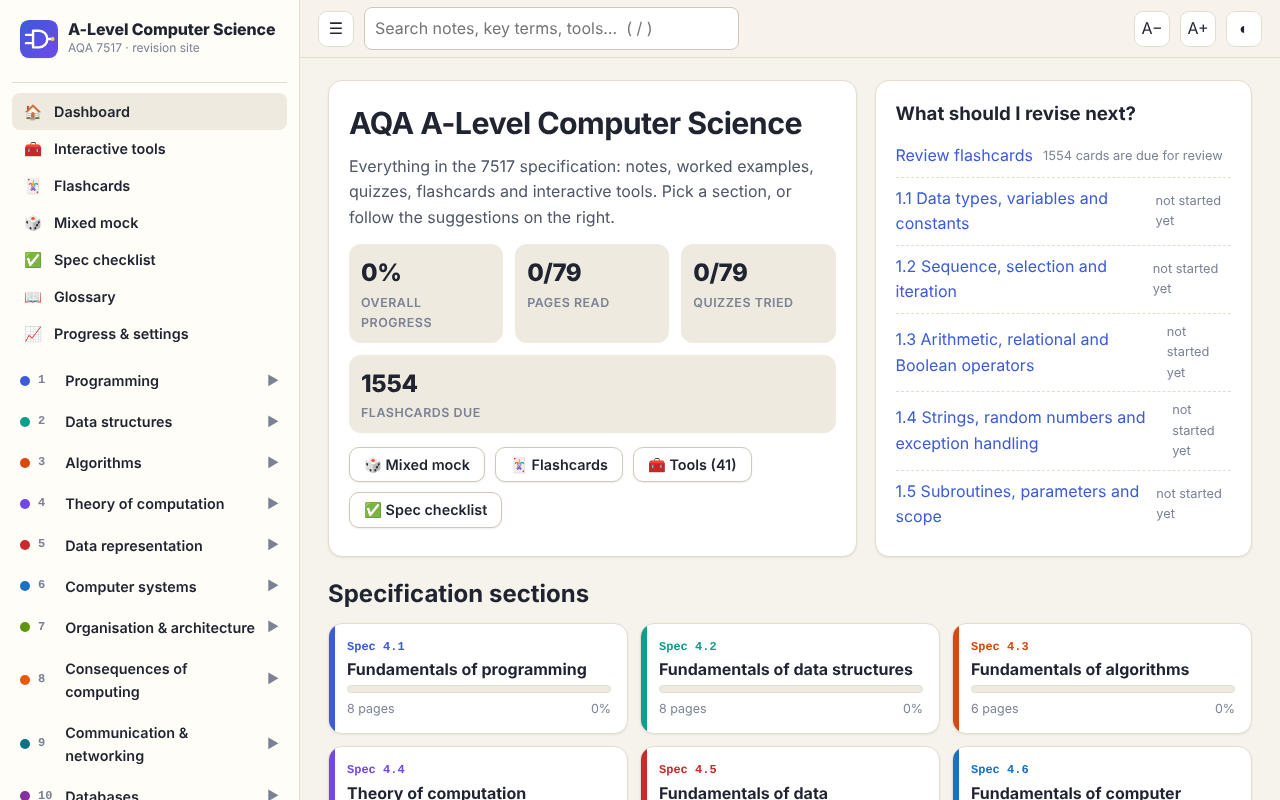
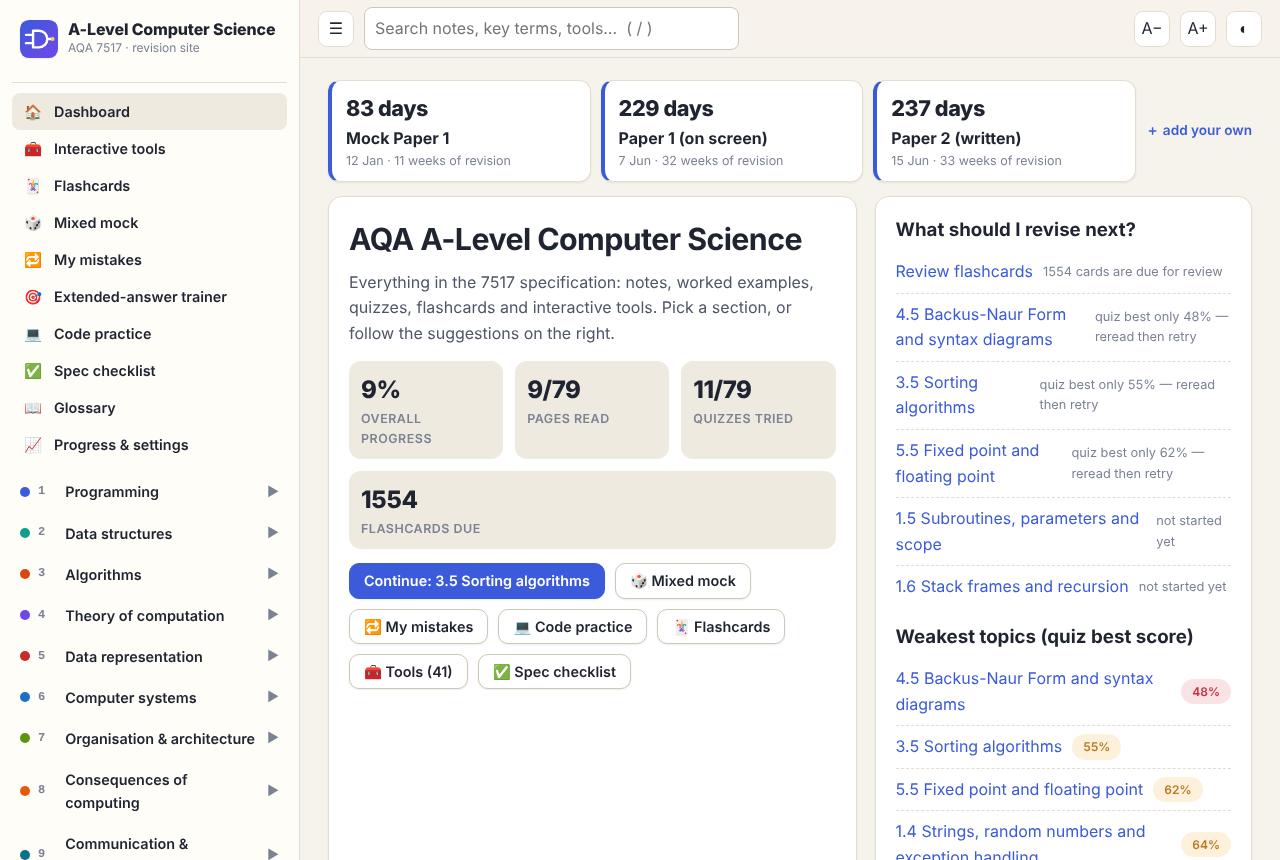
README rewrite with new screenshots; developer guide mentions countdowns
Claude-Session: https://claude.ai/code/session_01DRyF9aPnUE1CVsrKiv47Ya

diff --git a/README.md b/README.md
@@ -1,83 +1,102 @@
 # A-Level Computer Science Revision Site (AQA 7517)
 
-A complete, interactive revision website for the AQA A-Level Computer Science specification. I designed it and built it with an AI coding agent: I wrote the requirements and quality bar, and directed and reviewed the work. Every page, question and tool was produced by Claude Code agents and then checked by automated tests and independent AI reviewers.
+An interactive revision site covering the whole AQA A-Level Computer Science specification, used by my class. I designed it and directed AI coding agents (Claude Code) to build it. I set the requirements and quality bar, reviewed the work, and decided what shipped. Every page, question and tool was then checked by code, not taken on the AI's word.
 
-**Live site:** https://h4rvb0x.github.io/computing-notes/
+**Live site: [h4rvb0x.github.io/computing-notes](https://h4rvb0x.github.io/computing-notes/)**
 
-![Dashboard](docs/images/dashboard.png)
+![Dashboard with exam countdowns, progress and revision suggestions](docs/images/dashboard.png)
 
-## What's in it
+## At a glance
 
 | | |
 |---|---|
-| **79 pages of notes** | Every section of the AQA 7517 specification. Each page has learning objectives, key terms (mark-scheme wording plus plain English), worked examples, diagrams, "Marks are lost here" boxes, exam technique and a recap |
-| **283 / 283 spec points** | Each mapped to the page that teaches it ([COVERAGE.md](COVERAGE.md)) |
-| **1,585 quiz questions** | Multiple choice, short answer, true/false, ordering and spot-the-bug, all with explanations |
-| **595 exam-style questions** | Self-marked against mark schemes, including 33 levelled 6/9/12-mark questions |
-| **Extended-answer trainer** | For each levelled question, mark three example answers yourself, then see the examiner's level, mark and comment, and write your own |
-| **105 Python coding problems** | Run in the browser with Pyodide against 597 visible and hidden tests, with hints and model answers: 60 Section B-style problems, 24 from my class's programming booklet, and all 21 Piles O' Tiles Section D modifications auto-checked by playing scripted games against your edited skeleton program |
-| **My mistakes** | Every wrong answer comes back after 1, 3 and 7 days until you've got it right each time |
-| **700+ flashcards** | Spaced repetition (Leitner boxes) |
-| **89 trace-table challenges** | Checked cell by cell |
-| **41 interactive tools** | Including an AQA assembly simulator, fetch–decode–execute stepper, logic-gate simulator, Boolean simplifier, SQL playground, floating-point explorer, Dijkstra/A* visualiser, Turing machine, FSM and regex tools, subnet calculator and a TLS handshake demo |
-| **Paper 1 skeleton section** | For the 2027 "Piles O' Tiles" program: a method-by-method code tour, 18 documented bugs, 58 Section C questions, 21 Section D modification tasks (auto-checked in the browser) with tested model answers, and a faithful in-browser port of the game |
-| **Study tools** | Progress tracking, weakest-topic suggestions, a timed mixed mock, a spec checklist, search, dark/light mode, mobile layout, per-page reset and a "don't save on this device" mode |
-| **Installable and offline** | Add to Home Screen on a phone; a service worker saves the whole site for offline use |
-| **Accounts (optional)** | Google sign-in with Firebase; progress is merged across devices. Off until configured ([docs/SETUP.md](docs/SETUP.md)) |
-| **Report a mistake** | On every question and page, to a Google Form, GitHub issue or the database |
+| **79 pages of notes** | Every section of the spec, with all 283 spec points mapped ([COVERAGE.md](COVERAGE.md)). Each page has key terms (mark-scheme wording plus plain English), worked examples, diagrams, common-mistake boxes and exam technique |
+| **2,180 questions** | 1,585 quiz questions with instant feedback, and 595 exam-style questions self-marked against mark schemes |
+| **105 Python coding problems** | Written and run in the browser against 597 visible and hidden tests |
+| **41 interactive tools** | AQA assembly simulator, fetch–decode–execute stepper, logic gates, Boolean simplifier, SQL playground, floating point, Dijkstra/A*, Turing machines, FSMs, regex, subnetting, TLS… |
+| **700+ flashcards and 89 trace tables** | Spaced repetition, and traces checked cell by cell |
+
+## Features
+
+**Learning and practice**
+- **Code practice.** Python runs in the browser through Pyodide (CPython compiled to WebAssembly), with hints, model answers and hidden tests that catch edge cases. There are three sets:
+  - 60 Paper 1 Section B-style problems
+  - 24 exercises from my class's programming booklet
+  - all 21 Section D modifications for this year's skeleton program, *Piles O' Tiles*. You edit the real program, and scripted games check that your change works and that normal play still does.
+- **Extended-answer trainer.** For each of 33 levelled 6/9/12-mark questions, you mark three example answers yourself, then compare with the examiner's level, mark and comment. Then you write your own.
+- **My mistakes.** Every wrong answer comes back after 1, 3 and 7 days until you've got it right each time.
+- **Paper 1 skeleton section.** A method-by-method code tour, 18 documented bugs, 58 Section C questions, and a faithful in-browser copy of the game.
+- **Mixed mocks, a spec checklist, search and a glossary.**
+
+**Around it**
+- **Exam countdowns** for both papers, plus your own: mocks, the NEA deadline, other subjects.
+- **Accounts with live sync.** Sign in with Google, and progress on your phone appears on your laptop within seconds.
+- **Installable app.** Add to Home Screen; the whole site works offline.
+- **Report a mistake** on every question and page. It goes to a Google Form, so no account is needed.
+- **Dark mode, a mobile layout, adjustable text size, per-page progress reset** and a "don't save on this device" mode for shared PCs.
 
 <p>
-  <img src="docs/images/topic-dark.png" width="49%" alt="Topic page in dark mode">
-  <img src="docs/images/tool.png" width="49%" alt="Piles O' Tiles console tool">
+  <img src="docs/images/code-practice.png" width="49%" alt="Code practice: a Caesar cipher solution passing all seven tests">
+  <img src="docs/images/trainer.png" width="49%" alt="Extended-answer trainer: an example answer marked at Level 2 with the examiner's comment">
+</p>
+<p>
+  <img src="docs/images/section-d.png" width="49%" alt="Piles O' Tiles Section D task with the skeleton program in the editor">
+  <img src="docs/images/topic-dark.png" width="49%" alt="Notes page in dark mode with key terms">
 </p>
 
-## How it was built: AI-assisted engineering
+## How I built it with AI
 
-This project is mainly an exercise in **directing AI agents to build something large and correct**, rather than writing every line by hand.
+The project is mainly an exercise in **getting AI agents to build something large and correct**, rather than writing every line myself.
 
 **My role**
-- Defined the product: what a textbook replacement needs, the page template, question types, tools, accessibility, offline use and the quality bar.
-- Supplied the source material (my class notes, kept private and not in this repo) and the exam-board constraints, and made the design decisions: logo, privacy, memory controls, hosting.
-- Ran the build: reviewed reports, re-prioritised, and kept the work inside a limited usage budget (at most two agents at a time).
+- **Defining the product:** what a textbook replacement needs, the page template, question types and tools, offline use, privacy, and the quality bar.
+- **Supplying the inputs:** my class notes (kept private, not in this repo), the class programming booklet, the skeleton program and the exam-board constraints.
+- **Making the calls:** hosting, accounts, the logo, which features to build and which to drop.
+- **Running the build:** reviewing every agent's report and sending work back. I kept to at most two agents at a time to stay inside a usage budget.
 
-**How the AI work was organised**
-- **Specification first.** A written content contract ([docs/CONTENT_SPEC.md](docs/CONTENT_SPEC.md)) gave every agent the same formats and quality rules.
-- **Parallel agents.** Claude Code sub-agents each owned a section of the course or a group of tools, working in the same repository.
-- **Verification over trust.** No content was accepted on the AI's word:
-  - Every Python example is executed, and its output is compared with what the page shows (188 examples).
-  - Every quiz key, trace and mark scheme was recomputed with code: Python, `sqlite3`, `re`, logic identities checked against every input, an AQA assembly interpreter.
-  - The skeleton-program console was **differentially tested** against the real Python program: 61 scripted runs with identical output.
-  - Every coding problem's model answer passes its tests in real Python *and* in the in-browser runner, and a separate agent solved each problem from the task wording alone to catch unclear tasks.
-  - The cloud-sync merge rules have their own unit tests.
-  - A Playwright smoke test opens all 557 routes (desktop and mobile) and fails on any console error, missing tool or horizontal scroll.
-- **Independent review.** Every page was re-checked by a separate reviewer agent that hadn't written it. About 25 errors were caught and fixed, for example a wrong Amdahl's-law figure, AQA's definition of image resolution, and a logic puzzle with two answers.
-- **Source correction.** Mistakes found in the original notes (textbook, slides, online resources) are corrected on the pages and flagged for students.
-- **Continuous checks.** A GitHub Actions workflow re-runs the validators on every push before deploying.
+**How the work was organised**
+- **Specification first.** A written content contract ([docs/CONTENT_SPEC.md](docs/CONTENT_SPEC.md)) gave every agent the same formats and rules.
+- **Separate builders and reviewers.** Agents owned a section of the course or a feature. A *different* agent then reviewed each piece of work without having written it.
+- **Verification over trust.** Nothing was accepted because the AI said it was right:
+  - **Python examples:** all 188 are run, and their output is compared with what the page shows.
+  - **Answer keys:** every quiz key, trace and mark scheme was recomputed with code, using Python, `sqlite3`, regex engines, truth tables and an AQA assembly interpreter.
+  - **The game copy:** the in-browser *Piles O' Tiles* was tested against the real Python program, with identical output on 61 scripted runs.
+  - **Coding problems:**
+    - every model answer passes its tests in real Python *and* in the browser runner;
+    - every starting template fails at least one test;
+    - a separate agent solved all 60 core problems using only the question wording, to find unclear tasks.
+  - **Sync:** the merge rules have their own unit tests.
+  - **The whole site:** a browser test opens all 557 pages on desktop and mobile, and fails on any error or sideways scrolling.
+- **Continuous checks.** GitHub Actions runs seven validators on every push and only deploys if they all pass.
 
 **What went wrong, and how it was caught**
-- **The quizzes gave answers away.** Using the site, I noticed the correct option was often just the longest one, a known habit of AI-written multiple choice. I had it measured: a correct option more than 15% longer than every wrong one counts as a giveaway, and the share of questions where the answer is the longest option should stay near chance (25%). 281 questions were rewritten, options are now shuffled every time, and CI fails if the bias comes back. The same rule shaped the extended-answer examples: in over half the questions a lower-level answer is at least as long as the top one, so length never signals the level.
-- **A bug that had been there since the start.** While testing a data migration, the exam page's "self-marked total" turned out to join numbers together as text once a mark-scheme box was ticked. It was fixed and covered by a test.
-- **Questions that leaned on things they didn't show.** A classmate hit an SQL question about a database the question never displayed. A review of all 2,180 questions found 48 that depended on the notes or a previous question. Each now carries its own table, code or diagram, and CI rejects any question that says "previous question" or "the table above" without showing it.
-- **Over-confident facts.** An independent review of the extended-answer examples tightened several legal claims (what the PSTI Act and the Automated Vehicles Act actually say), corrected a timeline and moved one example answer that had been put in the wrong level.
+- **The quizzes gave answers away.** Using the site, I noticed the correct option was often just the longest one, a known habit of AI-written multiple choice.
+  - **How it was measured:** a correct option more than 15% longer than every wrong one counts as a giveaway. The answer should be the longest option about as often as chance (25%).
+  - **The fix:** 281 questions were rewritten, options are now shuffled, and CI fails if the bias returns.
+  - **The same rule applied elsewhere:** in over half the extended-answer questions, a weaker example answer is at least as long as the best one, so length never gives the level away.
+- **Questions that leaned on things they didn't show.** A classmate hit an SQL question about a database the question never displayed. A review of all 2,180 questions found 48 like it. Each now includes its own table, code or diagram, and CI rejects any question that refers to "the previous question" or "the table above" without showing it.
+- **A bug that had been there from the start.** The exam pages' self-marked total joined numbers together as text once a box was ticked. It was found while testing a data migration, and fixed.
+- **Over-confident facts.** An independent review of the extended-answer examples tightened legal claims (what the PSTI Act and the Automated Vehicles Act actually say), corrected a timeline and moved one answer that had been put in the wrong level.
+- **My own slip.** One edit broke the browser's Python runner through a single escaped character. Now a CI check runs that code under real Python on every push, and it catches exactly that mistake.
 
 ## Tech
 
-- Plain **HTML, CSS and vanilla JavaScript**: no framework, no build step, no dependencies. It runs from `file://` or any static host.
-- **Python in the browser:** Pyodide (CPython compiled to WebAssembly) in a Web Worker, so a runaway loop can be stopped without freezing the page.
-- **PWA:** a web app manifest and a network-first service worker.
-- **Optional Firebase** (Auth + Firestore), loaded only when configured. Progress merges with per-field rules (max, or, newest wins, "gone" markers), and security rules limit each user to their own document.
-- A hash-based single-page router; content is written as **Markdown inside JS files** with a small custom renderer (callouts, tabs, steps, inline SVG diagrams, embedded tools).
-- Progress is stored in `localStorage`, with export/import.
-- Python and Node scripts handle validation, coverage generation and end-to-end testing.
+- **Vanilla HTML, CSS and JavaScript.** No framework, no build step, no dependencies. A hash-based single-page router. Content is written as Markdown inside JS files with a small custom renderer (callouts, tabs, steps, SVG diagrams, embedded tools).
+- **Python in a Web Worker.** Pyodide runs off the main thread, so an infinite loop can be stopped without freezing the page.
+- **Offline app.** A web app manifest and a network-first service worker.
+- **Accounts.** Firebase Auth (Google) and Firestore.
+  - Progress lives in the browser first. The cloud copy is merged field by field: best score, union of ticks, newest change, plus markers for deleted items.
+  - A real-time listener keeps devices in step.
+  - Security rules limit every user to their own data.
+- **Stable question ids** (a hash of each question's text), so saved progress survives reordering and edits.
 
 ```
-site/        the website (this folder is what GitHub Pages publishes)
-  index.html, css/, js/          app shell, router, renderer, quiz/flashcard/trace/code engines, sync
+site/        the website (what GitHub Pages publishes)
+  index.html, css/, js/          app shell, router, renderer; quiz, flashcard, trace, code, trainer, sync, countdown engines
   content/                       sections.js (site map + spec points), topics, quizzes, exams, flashcards, traces, problems
   tools/                         one file per interactive tool
   sw.js, manifest.webmanifest    offline app
-scripts/     build_manifest, check_content, check_ids, check_problems, check_quiz_balance, check_sync_merge,
-             run_python_snippets, build_coverage, smoke_test
+scripts/     validators and tests (run in CI) and the Playwright smoke test
 firebase/    Firestore security rules
 docs/        setup guide, authoring guide, developer guide, coverage notes, screenshots
 COVERAGE.md  every AQA spec point → page → status
@@ -85,36 +104,25 @@ COVERAGE.md  every AQA spec point → page → status
 
 ## Run it locally
 
-Open `site/index.html` in a browser. No server needed. Code practice, offline install and accounts need the site served over http, for example by running `python3 -m http.server` inside `site/`.
+Open `site/index.html` in a browser. Code practice, offline install and accounts need the site served over http, for example `python3 -m http.server` inside `site/`.
 
-To check content after editing, from the repository root:
+Checks, from the repository root:
 
 ```bash
-python3 scripts/build_manifest.py      # after adding files
-python3 scripts/check_content.py       # schema, links, required blocks
-python3 scripts/run_python_snippets.py # run every Python example
-python3 scripts/check_problems.py      # run every coding problem's model answer against its tests
-python3 scripts/build_coverage.py      # regenerate COVERAGE.md
-node scripts/check_ids.js              # unique stable question ids
-node scripts/smoke_test.js             # needs the playwright npm package
+python3 scripts/check_content.py        # schema, links, required blocks
+python3 scripts/run_python_snippets.py  # every Python example in the notes
+python3 scripts/check_problems.py       # every coding problem's model answer against its tests
+python3 scripts/check_worker_harness.py # the in-browser Python runner, under real Python
+node scripts/check_ids.js               # unique question ids, and every question self-contained
+node scripts/check_quiz_balance.js      # no giveaway answer lengths
+node scripts/check_sync_merge.js        # sync merge rules
+node scripts/smoke_test.js              # every page in a real browser (needs playwright)
 ```
 
-See [docs/DEVELOPING.md](docs/DEVELOPING.md) for how to add pages, questions and tools.
-
-## Deploying to GitHub Pages
-
-1. Repository **Settings → Pages → Build and deployment → Source: GitHub Actions**.
-2. Push to `main`. The workflow in `.github/workflows/pages.yml` validates the content, then publishes `site/`.
-
-[docs/SETUP.md](docs/SETUP.md) also covers the mistake-report form and switching on accounts.
-
-## Roadmap
-
-- Switch on accounts for the class (the code is built; it needs a Firebase project, see [docs/SETUP.md](docs/SETUP.md)).
-- A native iOS app (Capacitor) with daily "mistakes due" notifications.
-- More code-practice problems.
+[docs/DEVELOPING.md](docs/DEVELOPING.md) explains how to add pages, questions, problems and tools. [docs/SETUP.md](docs/SETUP.md) covers GitHub Pages, the report form and Firebase.
 
 ## Notes
 
-- Not affiliated with or endorsed by AQA. Specification references are for revision purposes.
+- Not affiliated with or endorsed by AQA. Specification references are for revision.
+- Exam dates are AQA's published June 2027 timetable, which is provisional until AQA confirms it.
 - The Paper 1 skeleton section is based on AQA's 2027 preliminary material, which is intended for candidates at the centre.

diff --git a/docs/DEVELOPING.md b/docs/DEVELOPING.md
@@ -65,7 +65,8 @@ site/
 │   ├── code.js             code practice pages, test checking, the small code editor
 │   ├── py-worker.js        Web Worker that runs Python with Pyodide (same test rules as check_problems.py)
 │   ├── sync.js             optional Google sign-in + Firestore sync, and the progress merge rules
-│   ├── config.js           settings: report form, Firebase project (see docs/SETUP.md)
+│   ├── countdown.js        exam countdowns on the dashboard (AQA dates in config.js, plus your own)
+│   ├── config.js           settings: report form, exam dates, Firebase project (see docs/SETUP.md)
 │   └── search.js           site-wide search
 ├── sw.js                   service worker: saves the site for offline use (network first)
 ├── manifest.webmanifest    makes the site installable; icons in icons/
